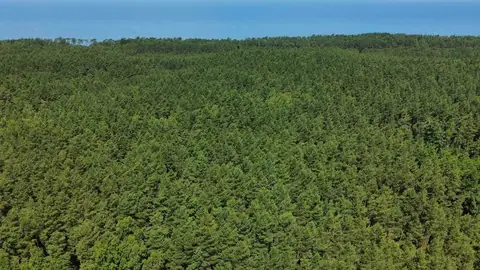
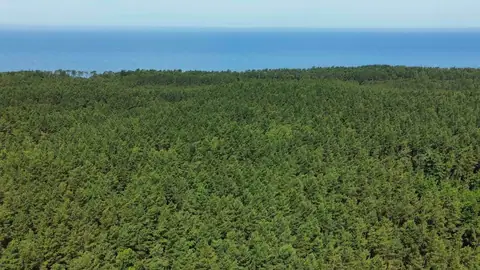
Kadr z drona z widocznym morzem, tło pod zdjęciami

diff --git a/src/pages/Home.tsx b/src/pages/Home.tsx
@@ -29,7 +29,7 @@ const Home = () => {
         <Hero />
 
         <section className="container grid items-center gap-8 px-5 py-12 md:grid-cols-2 md:gap-12 md:py-20">
-          <Link reloadDocument to="/galeria" className="group relative block overflow-hidden rounded-lg">
+          <Link reloadDocument to="/galeria" className="group relative block overflow-hidden rounded-lg bg-muted">
             <img
               src="/images/koral-domki-1000.webp"
               srcSet="/images/koral-domki-600.webp 600w, /images/koral-domki-1000.webp 1000w"
@@ -67,7 +67,7 @@ const Home = () => {
           </div>
           <div className="grid grid-cols-2 gap-3 md:grid-cols-4 md:gap-4">
             {(["kuchnia", "sypialnia", "salon", "lazienka"] as const).map((name, i) => (
-              <Link reloadDocument to="/galeria" key={name} className="group relative block overflow-hidden rounded-lg">
+              <Link reloadDocument to="/galeria" key={name} className="group relative block overflow-hidden rounded-lg bg-muted">
                 <img
                   src={`/images/wnetrza/${name}-480.webp`}
                   srcSet={`/images/wnetrza/${name}-480.webp 480w, /images/wnetrza/${name}-800.webp 800w`}
